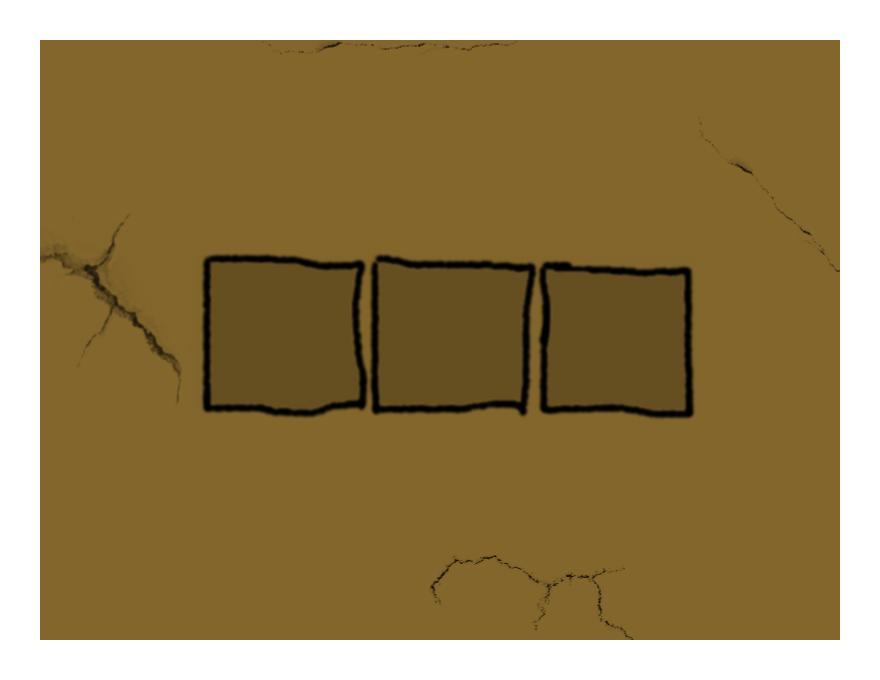
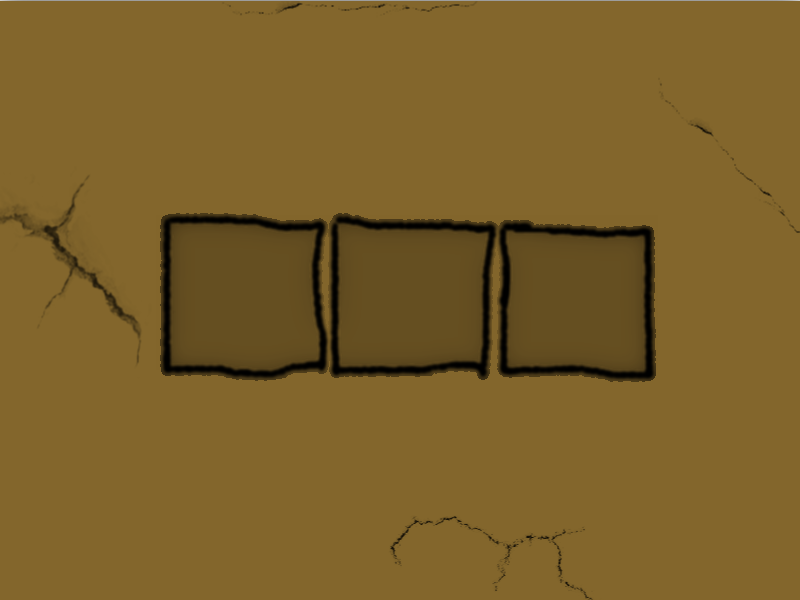
Finished glyph code

diff --git a/src/app/locations/piccode.js b/src/app/locations/piccode.js
@@ -1,9 +1,20 @@
+import _ from 'lodash'
+
+const glyphList = _.range(10).map((i) => 'glyphs/glyph'+i)
+
 export const piccode = {
   name: 'piccode',
   background: 'piccode',
-  assets: ['back', 'flintInventory', 'steel'],
+  assets: ['back'].concat(glyphList),
   wheels: [0,0,0],
-  pics: ['flintInventory', 'steel'],
+  glyphChecker: _.debounce(
+    function (game) {
+      if (_.isEqual([3,8,5], this.wheels)) {
+        game.state.glyphDoorOpen = true
+        game.goto('start')
+      }
+    }, 500
+  ),
   render (Konva, game) {
     let back = new Konva.Image({
       x: 368,
@@ -19,30 +30,30 @@ export const piccode = {
   },
 
   renderWheels (game) {
-    return [190, 340, 490].map((x, i) => {
+    return [170, 340, 504].map((x, i) => {
       let wheel = new Konva.Group()
       let frame = new Konva.Rect({
         x,
-        y: 230,
-        width: 140,
-        height: 130,
-        fill: 'red',
-        opacity: 0.1
+        y: 220,
+        width: 150,
+        height: 150,
+        opacity: 0
       })
       wheel.add(frame)
 
       let test = new Konva.Image({
         x,
         y: 230,
-        width: 130,
-        height: 130,
-        image: this.assets[this.pics[this.wheels[i]]]
+        width: 150,
+        height: 150,
+        image: this.assets['glyphs/glyph' + this.wheels[i]]
       })
       wheel.add(test)
 
       wheel.on('click', () => {
-        this.wheels[i] = (this.wheels[i] + 1) % 2
+        this.wheels[i] = (this.wheels[i] + 1) % 10
         game.draw()
+        this.glyphChecker.call(this, game)
       })
 
       return wheel

diff --git a/src/app/locations/start.js b/src/app/locations/start.js
@@ -11,7 +11,7 @@ export const start = {
     game.message = 'Ouch. I just fell through the floor! Huh, this must be a subterranean chamber. I\'d better find a way out.'
   },
   render (Konva, game) {
-    let { doorOpen } = game.state
+    let { glyphDoorOpen } = game.state
 
     let objects = []
 
@@ -20,11 +20,11 @@ export const start = {
       y: 232,
       width: 184,
       height: 250,
-      image: this.assets[doorOpen ? 'doorOpen' : 'door']
+      image: this.assets[glyphDoorOpen ? 'doorOpen' : 'door']
     });
 
     door.on('click', () => {
-      if (doorOpen) {
+      if (glyphDoorOpen) {
         game.goto('end')
       } else {
         game.goto('piccode')

diff --git a/src/app/game.js b/src/app/game.js
@@ -29,7 +29,7 @@ let game = {
 
   goto (location) {
     if (!this.locations[location]) {
-      throw Error('Location '+game.location+' undefined.')
+      throw Error('Location '+ location +' undefined.')
     }
     if (this.location !== location) {
       this.location = location
